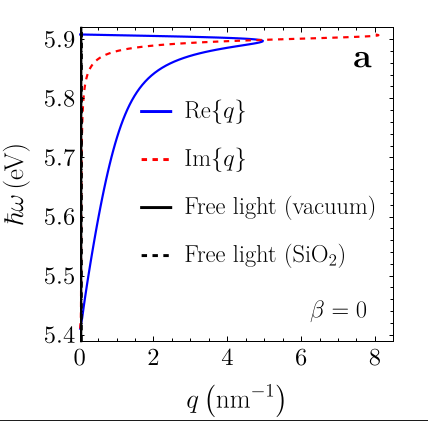
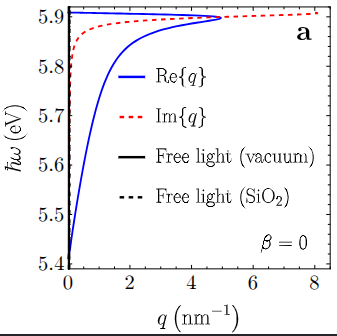
Work on presentation. including Part II

diff --git a/Parts/hBN_superlattice.tex b/Parts/hBN_superlattice.tex
@@ -263,7 +263,7 @@ According to T.~Pedersen [1]
 \begin{textblock*}{6.0cm}(0.8cm,2.3cm)
 \begin{figure}
     \centering
-    \includegraphics[scale=0.3]{Figures/absorption_of_beta_panel_a.png}
+    \includegraphics[scale=0.28]{Figures/absorption_of_beta_panel_a.png}
 \end{figure}
 \end{textblock*}
 }
@@ -272,7 +272,7 @@ According to T.~Pedersen [1]
 \begin{textblock*}{6.0cm}(7.2cm,2.3cm)
 \begin{figure}
     \centering
-    \includegraphics[scale=0.3]{Figures/absorption_of_beta_panel_b.png}
+    \includegraphics[scale=0.28]{Figures/absorption_of_beta_panel_b.png}
 \end{figure}
 \end{textblock*}
 }
@@ -294,11 +294,10 @@ According to T.~Pedersen [1]
 %%%%%%%%%%%%%%%%%%%%%%%%%%%%%%%%%%%%%%%%%%%%%%%%%%%%%%%%%%%%%%%%%%%%%%%%%%%%%%%
 
 \subsection{Exciton--Polaritons}
-
 %%%%%%%%%%%%%%%%%%%%%%%%%%%%%%%%%%%%%%%%%%%%%%%%%%%%%%%
 
 \begin{frame}{Exciton--polaritons}
-
+\setbeamercovered{transparent=15}
 \only<1->{
 
 \begin{textblock*}{6.0cm}(0.cm,1.2cm)
@@ -399,34 +398,38 @@ According to T.~Pedersen [1]
 %stress different degrees of confinement micrometer vs nanometer
 \end{textblock*}
 }
+
+\begin{textblock*}{12cm}(1.6cm,4.5cm)
+\setbeamercovered{transparent=15}
+
 \begin{columns}[b]
 \begin{column}{0.33\textwidth}
- \uncover<1,2>{
+ \only<2,3,6>{
    \begin{figure}
     \centering
-        \includegraphics[width=0.7\linewidth]{Figures/polariton_a.png}
+        \includegraphics[width=0.9\linewidth]{Figures/polariton_a.png}
    \end{figure}
   }      
  \end{column}
 \begin{column}{0.33\textwidth}
- \uncover<1,3>{
+ \only<2,4,6>{
     \hspace{0.5cm}
   \begin{figure}
     \centering
-        \includegraphics[width=0.7\linewidth]{Figures/polariton_b.png}
+        \includegraphics[width=0.9\linewidth]{Figures/polariton_b.png}
    \end{figure}
    }
  \end{column}
  \begin{column}{0.33\textwidth}
- \uncover<1,4>{
+ \only<2,5,6>{
   \begin{figure}
     \centering
-        \includegraphics[width=0.7\linewidth]{Figures/polariton_c.png}
+        \includegraphics[width=0.9\linewidth]{Figures/polariton_c.png}
    \end{figure}
    }
  \end{column}
 \end{columns}
-
+\end{textblock*}
 % \only<3>{
 % \begin{textblock*}{5.0cm}(0.7cm,4.4cm)
 % \begin{center}
@@ -466,4 +469,42 @@ According to T.~Pedersen [1]
 
 \begin{frame}{Summary}
 
+    \begin{textblock*}{8cm}(0.5cm,1.2cm)
+        \begin{itemize}
+            \item<1-> Tune the frequency of the optical resonances
+        \end{itemize}
+    \end{textblock*}
+
+    \begin{textblock*}{8cm}(0.5cm,4.5cm)
+        \begin{itemize}
+            \item<2-> Tunable absorption by changing the polarization
+        \end{itemize}
+    \end{textblock*}
+
+    \begin{textblock*}{8cm}(8.0cm,1.0cm)
+        \only<1->{
+        \begin{figure}
+            \centering
+            \includegraphics[scale=0.25]{Figures/absorption_of_omega_a.png}
+        \end{figure}}
+    \end{textblock*}
+    \begin{textblock*}{8cm}(8.0cm,4.4cm)
+        \only<2->{
+        \begin{figure}
+            \centering
+            \includegraphics[scale=0.22]{Figures/absorption_of_beta_panel_a.png}
+        \end{figure}}
+    \end{textblock*}
+
+    \begin{textblock*}{8cm}(0.5cm,5.3cm)
+        \only<3->{
+        \begin{block}{}    
+            However....
+            \begin{itemize}\setlength{\itemsep}{6pt}
+                \item<4-> Where does $\varepsilon_{\mathrm{RK}}(q)$ come from?
+                \item<5-> How to determine $r_0$?
+                \item<6-> How does $\varepsilon_{\mathrm{2D}}(q)$ look like for higher $q$?
+            \end{itemize}
+        \end{block}}        
+    \end{textblock*}
 \end{frame}

diff --git a/Parts/Screening.tex b/Parts/Screening.tex
@@ -16,15 +16,18 @@
 % \column{.5\linewidth}
 
     \onslide<1->{
-     \begin{equation*}
-        \varepsilon^{\mathrm{RPA}}(\vectormath{r},\vectormath{r}';t,t') = \delta(\vectormath{r}-\vectormath{r}') \delta(t-t') - \int v_c(\vectormath{r}-\vectormath{r}'') \chi^0(\vectormath{r}'',\vectormath{r}';t-t'') \,\dr''
-    \end{equation*}
+        \begin{equation*}
+            \varepsilon^{\mathrm{RPA}}(\vectormath{r},\vectormath{r}';t,t') = \delta(\vectormath{r}-\vectormath{r}') \delta(t-t') - \int v_c(\vectormath{r}-\vectormath{r}'') \chi^0(\vectormath{r}'',\vectormath{r}';t-t'') \,\dr''
+        \end{equation*}
     }
 
     \onslide<2->{
-        
+        \vspace{-0.4cm}
         \begin{equation*}
-            \varepsilon_{\bG \bG'} (\bq) = \delta_{\bG \bG'} - \sqrt{v_c(\bq + \bG)} \chi^0_{\bG \bG'} (\bq) \sqrt{v_c(\bq + \bG')}\,, 
+            \Downarrow \mathcal{F}
+        \end{equation*}
+        \begin{equation*}
+            \varepsilon_{\bG \bG'} (\bq) = \delta_{\bG \bG'} - \sqrt{v_c(\bq + \bG)} \chi^0_{\bG \bG'} (\bq) \sqrt{v_c(\bq + \bG')}
             \begin{cases}
                 v_c(\bq) = \frac{e^2}{2 \varepsilon_0 |\bq|} & \text{in } \mathrm{2D} \\
                 v_c(\bq) = \frac{e^2}{\varepsilon_0 |\bq|^2} & \text{in } \mathrm{3D}
@@ -36,7 +39,7 @@
         \begin{empheq}[innerbox=\fbox]{align}
             \chi^0_{\bG \bG'} (\bq) = \frac{2}{\mathcal{A}} \sum_{vc} \sum_{\bk \sigma} \frac{\bra{c,\bk} \ee^{-\ii(\bq + \bG) \vdot \br} \ket{v,\bk  + \bq} \! \bra{v,\bk  + \bq} \ee^{\ii(\bq + \bG') \vdot \br} \ket{c,\bk}}{\epsilon_{v\bk + \bq} - \epsilon_{c\bk} } \notag
         \end{empheq}
-        [1] Jack Deslippe et al., “BerkeleyGW: A massively parallel computer package for the calculation of the quasiparticle and optical properties of materials and nanostructures”, Computer Physics Communications 183.6 (2012)
+        [1] Jack Deslippe et al. - \textit{Comp. Phys. Comm.} \textbf{183} 6 (2012)
     }
 
 \end{frame}

diff --git a/main.tex b/main.tex
@@ -116,8 +116,6 @@
 }
 \makeatother
 
-\setbeamercovered{transparent}
-
 \begin{document}
 \selectlanguage{english}
 
